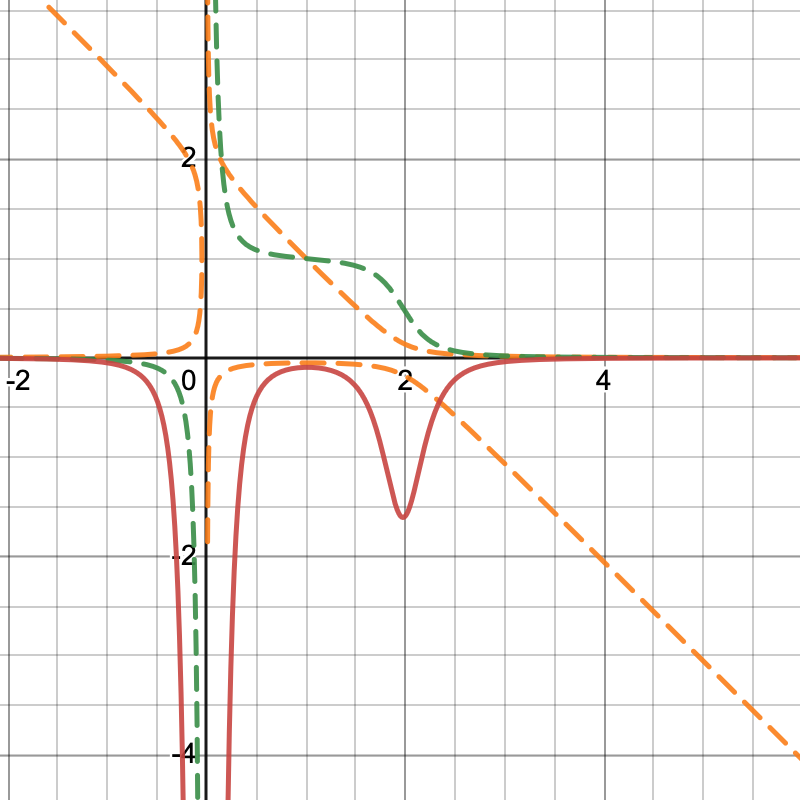
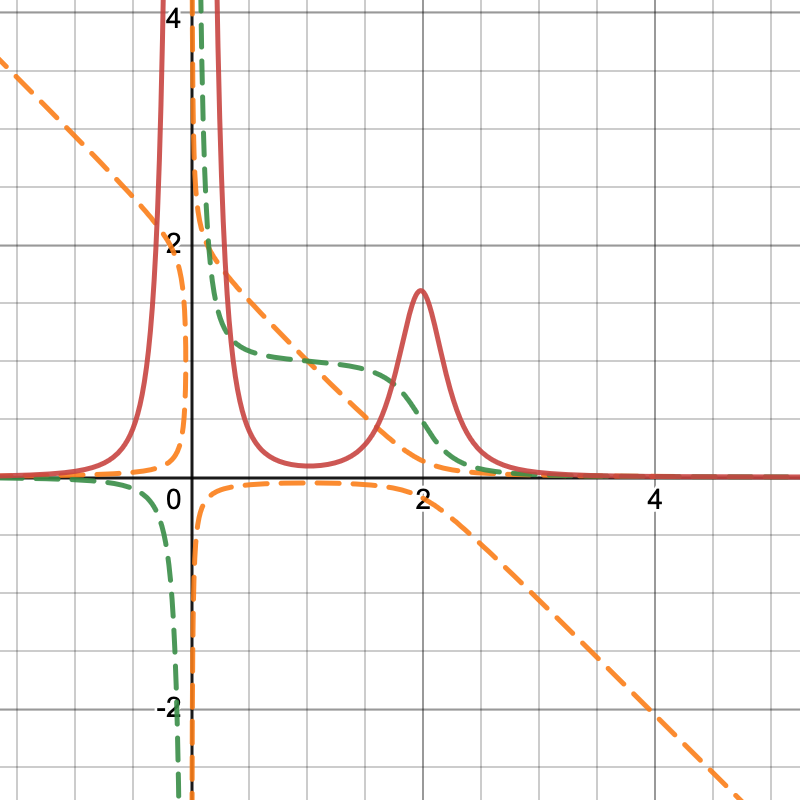
fix slippage curve plots

Changed region(s): [[0.0, 0.0, 1.0, 1.0]]

diff --git a/BACKGROUND.md b/BACKGROUND.md
@@ -118,7 +118,7 @@ A * n**n * sum_i x_i + D = A * D * n**n + D**(n+1) / (n**n * prod_i x_i)
 
 ![Stableswap price chart](assets/stableswap-price.png)
 
-[Curve marginal slippage chart (x, S(x))](https://www.desmos.com/calculator/harfskir6i)
+[Curve marginal slippage chart (x, S(x))](https://www.desmos.com/calculator/ruj2cgyfu1)
 
 ![Stableswap slippage chart](assets/stableswap-slippage.png)
 
